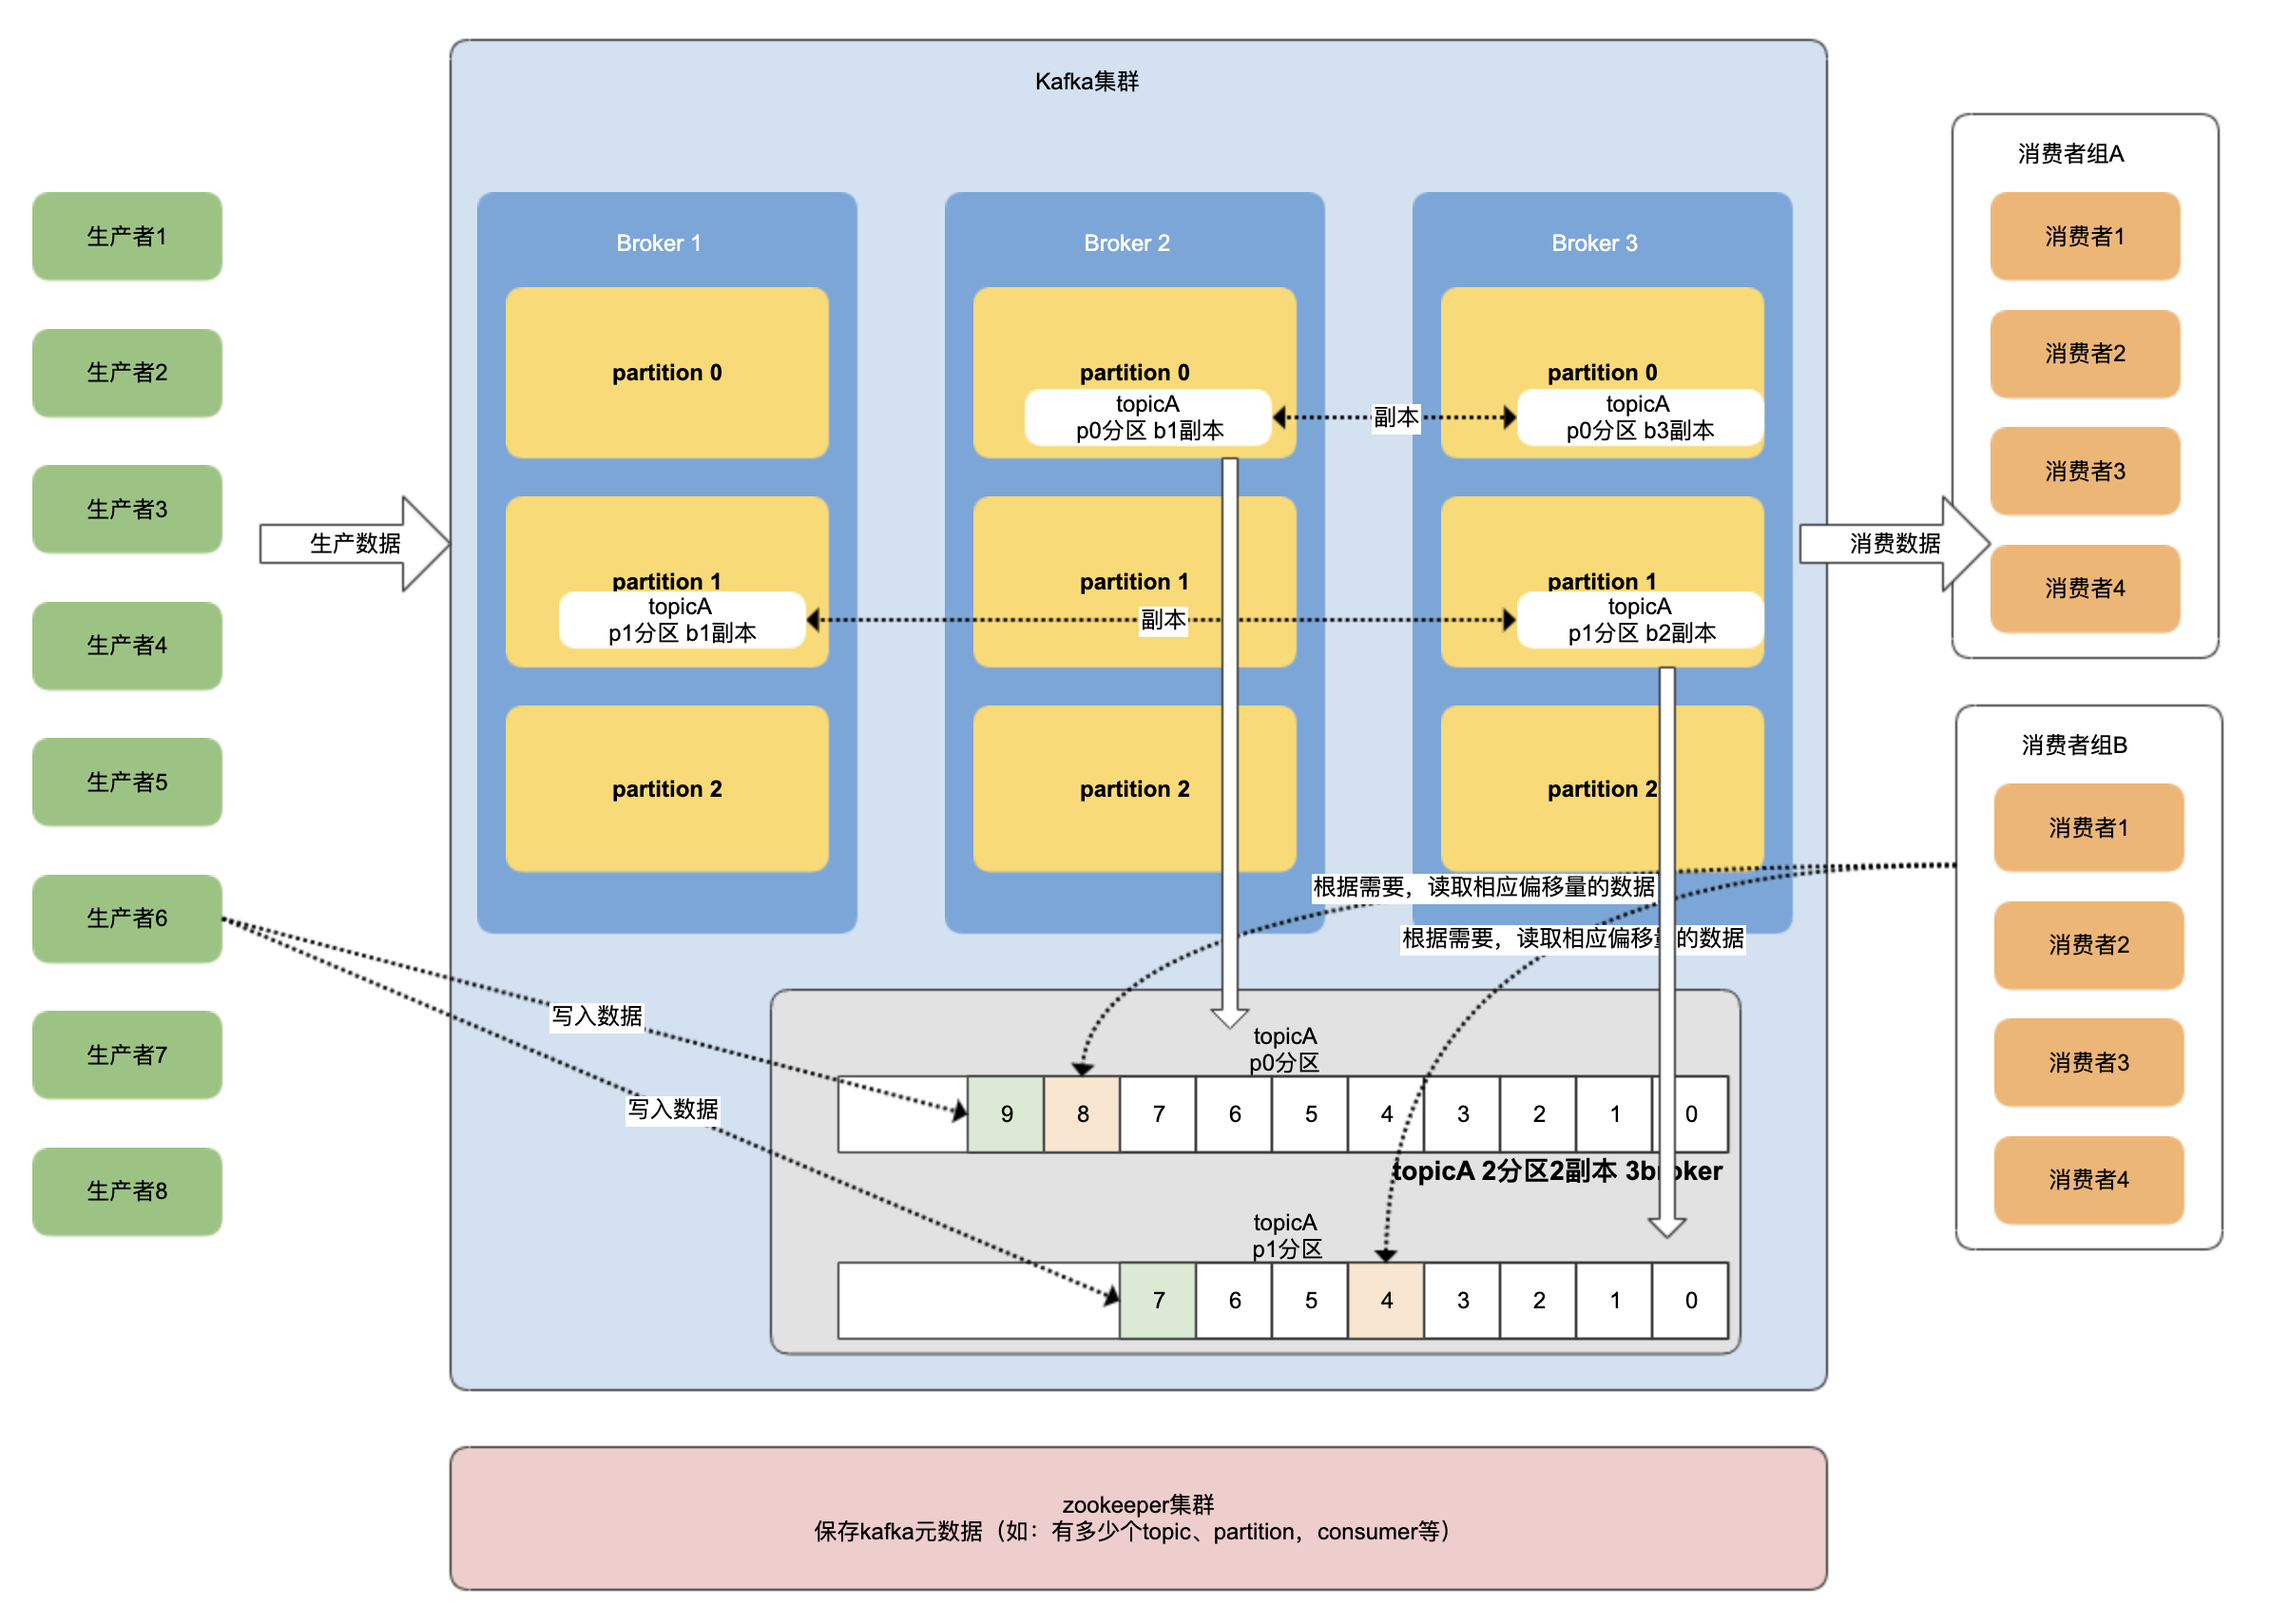
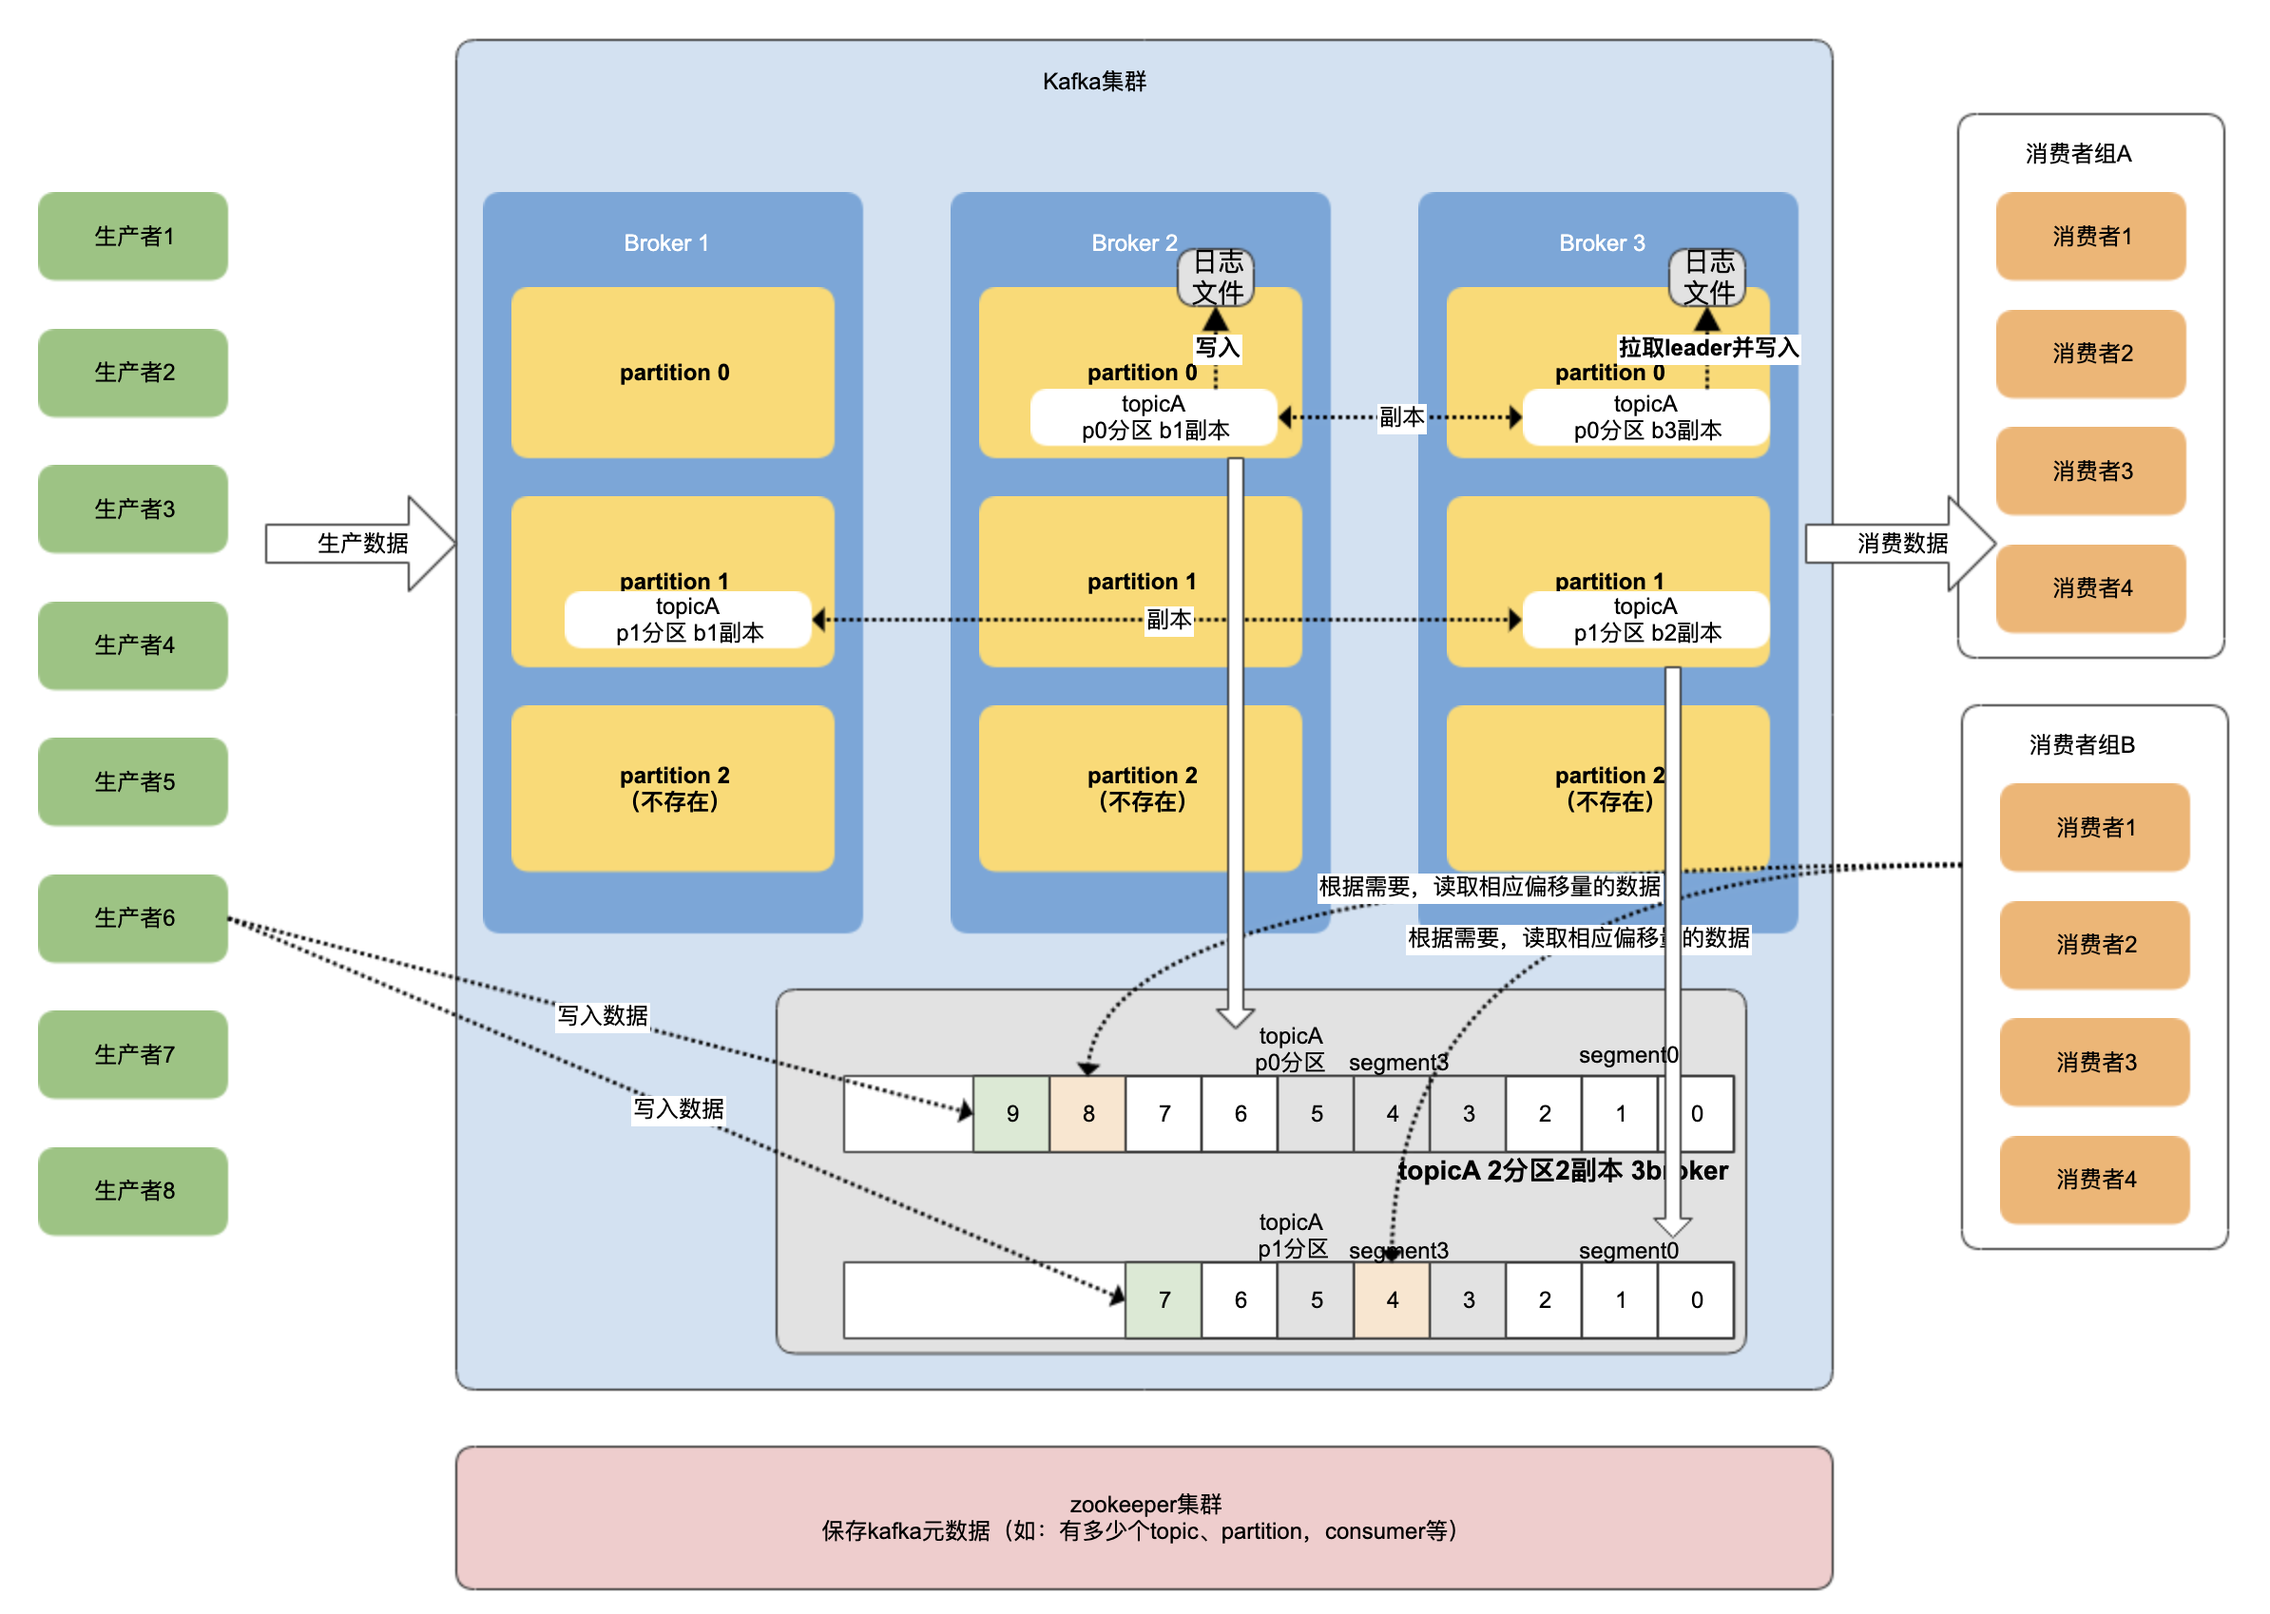
kafka-物理存储结构

diff --git a/3JMS/2kafka/kafkaDemo1-producer/src/main/java/com/cl/learn/kafka/kafkademo1/test/TemplateTest.java b/3JMS/2kafka/kafkaDemo1-producer/src/main/java/com/cl/learn/kafka/kafkademo1/test/TemplateTest.java
@@ -40,11 +40,14 @@ public class TemplateTest implements CommandLineRunner {
 
     @Override
     public void run(String... args) throws Exception {
-//        kafkaProConsu.testSend1();
+        for(int i=0;i<100;i++){
+            kafkaProConsu.testSend1();
+
+        }
 //        kafkaProConsu.testSend2();
 //        kafkaProConsu.testReceive();
 //        testSend1_template();
-        testReceive1_template();
+//        testReceive1_template();
     }
 
 

diff --git a/3JMS/2kafka/kafkaDemo1-producer/src/main/java/com/cl/learn/kafka/kafkademo1/test/KafkaProConsu.java b/3JMS/2kafka/kafkaDemo1-producer/src/main/java/com/cl/learn/kafka/kafkademo1/test/KafkaProConsu.java
@@ -25,7 +25,7 @@ import java.util.concurrent.Future;
 @Component
 public class KafkaProConsu {
 
-    public static String topic="topic1";
+    public static String topic="topic2";
     SimpleDateFormat sdf=new SimpleDateFormat("yyyy-MM-dd HH:mm:ss");
 
     @Autowired

diff --git a/3JMS/2kafka/doc/kafka.md b/3JMS/2kafka/doc/kafka.md
@@ -285,7 +285,7 @@ props.put("acks","all")
 
 * leader负载均衡
     * Kafka中引入了一个叫做「preferred-replica」的概念，意思就是：优先的Replica
-    * 在ISR列表中，第一个replica就是preferred-replica
+    * 在ISR(in sync replicas)列表中，第一个replica就是preferred-replica
     * 第一个分区存放的broker，肯定就是preferred-replica
     * 执行以下脚本可以将preferred-replica设置为leader，均匀分配每个分区的leader
     ```
@@ -298,6 +298,7 @@ props.put("acks","all")
         * broker进程上的leader将消息写入到本地log中
         * follower从leader上拉取消息，写入到本地log，并向leader发送ACK
         * leader接收到所有的ISR中的Replica的ACK后，并向生产者返回ACK
+        <img src='./images/20.png'>
     * 消费
         * 两种消费模式
             * MQ-->push-->消费者：消息队列记录所有消费者的状态，某一条消息如果被标记为已消费，则消费者不在进行消费
@@ -306,3 +307,19 @@ props.put("acks","all")
         * 消费者可以按照任意的顺序消费消息。比如，消费者可以重置到旧的偏移量，重新处理之前已经消费过的消息；或者直接跳到最近的位置，从当前的时刻开始消费
     * kafka消费数据流程
     <img src='./images/19.png'>
+    
+## kafka的数据存储形式
+* 一个topic分多个分区
+* 一个分区（partition）分多个段（segment）
+* 一个段（segment）分多个文件（.log，.index，.timeindex，leader-epoch-checkpoint）
+    * log日志文件
+    * index偏移量索引
+    * timeindex时间索引
+    * eader-epoch-checkpoint，持久化每个partition leader对应的LEO（log end offset，日志文件中下一条待写入消息的offset）
+    * <img src='./images/21.png'>
+* 每个日志文件名为起始偏移量，默认每个日志(段segment)文件为`log.segment.bytes=1073741824 #1024*1024*1024=1G `
+    * 当设置`log.segment.bytes=4096 #4k`时，每当日志满4k，便另起下一个文件，并以偏移量命名
+    <img src='./images/22.png'>
+* 以偏移量命名可起稀疏索引作用，便于快速查找
+    <img src='./images/23.png'>
+    
